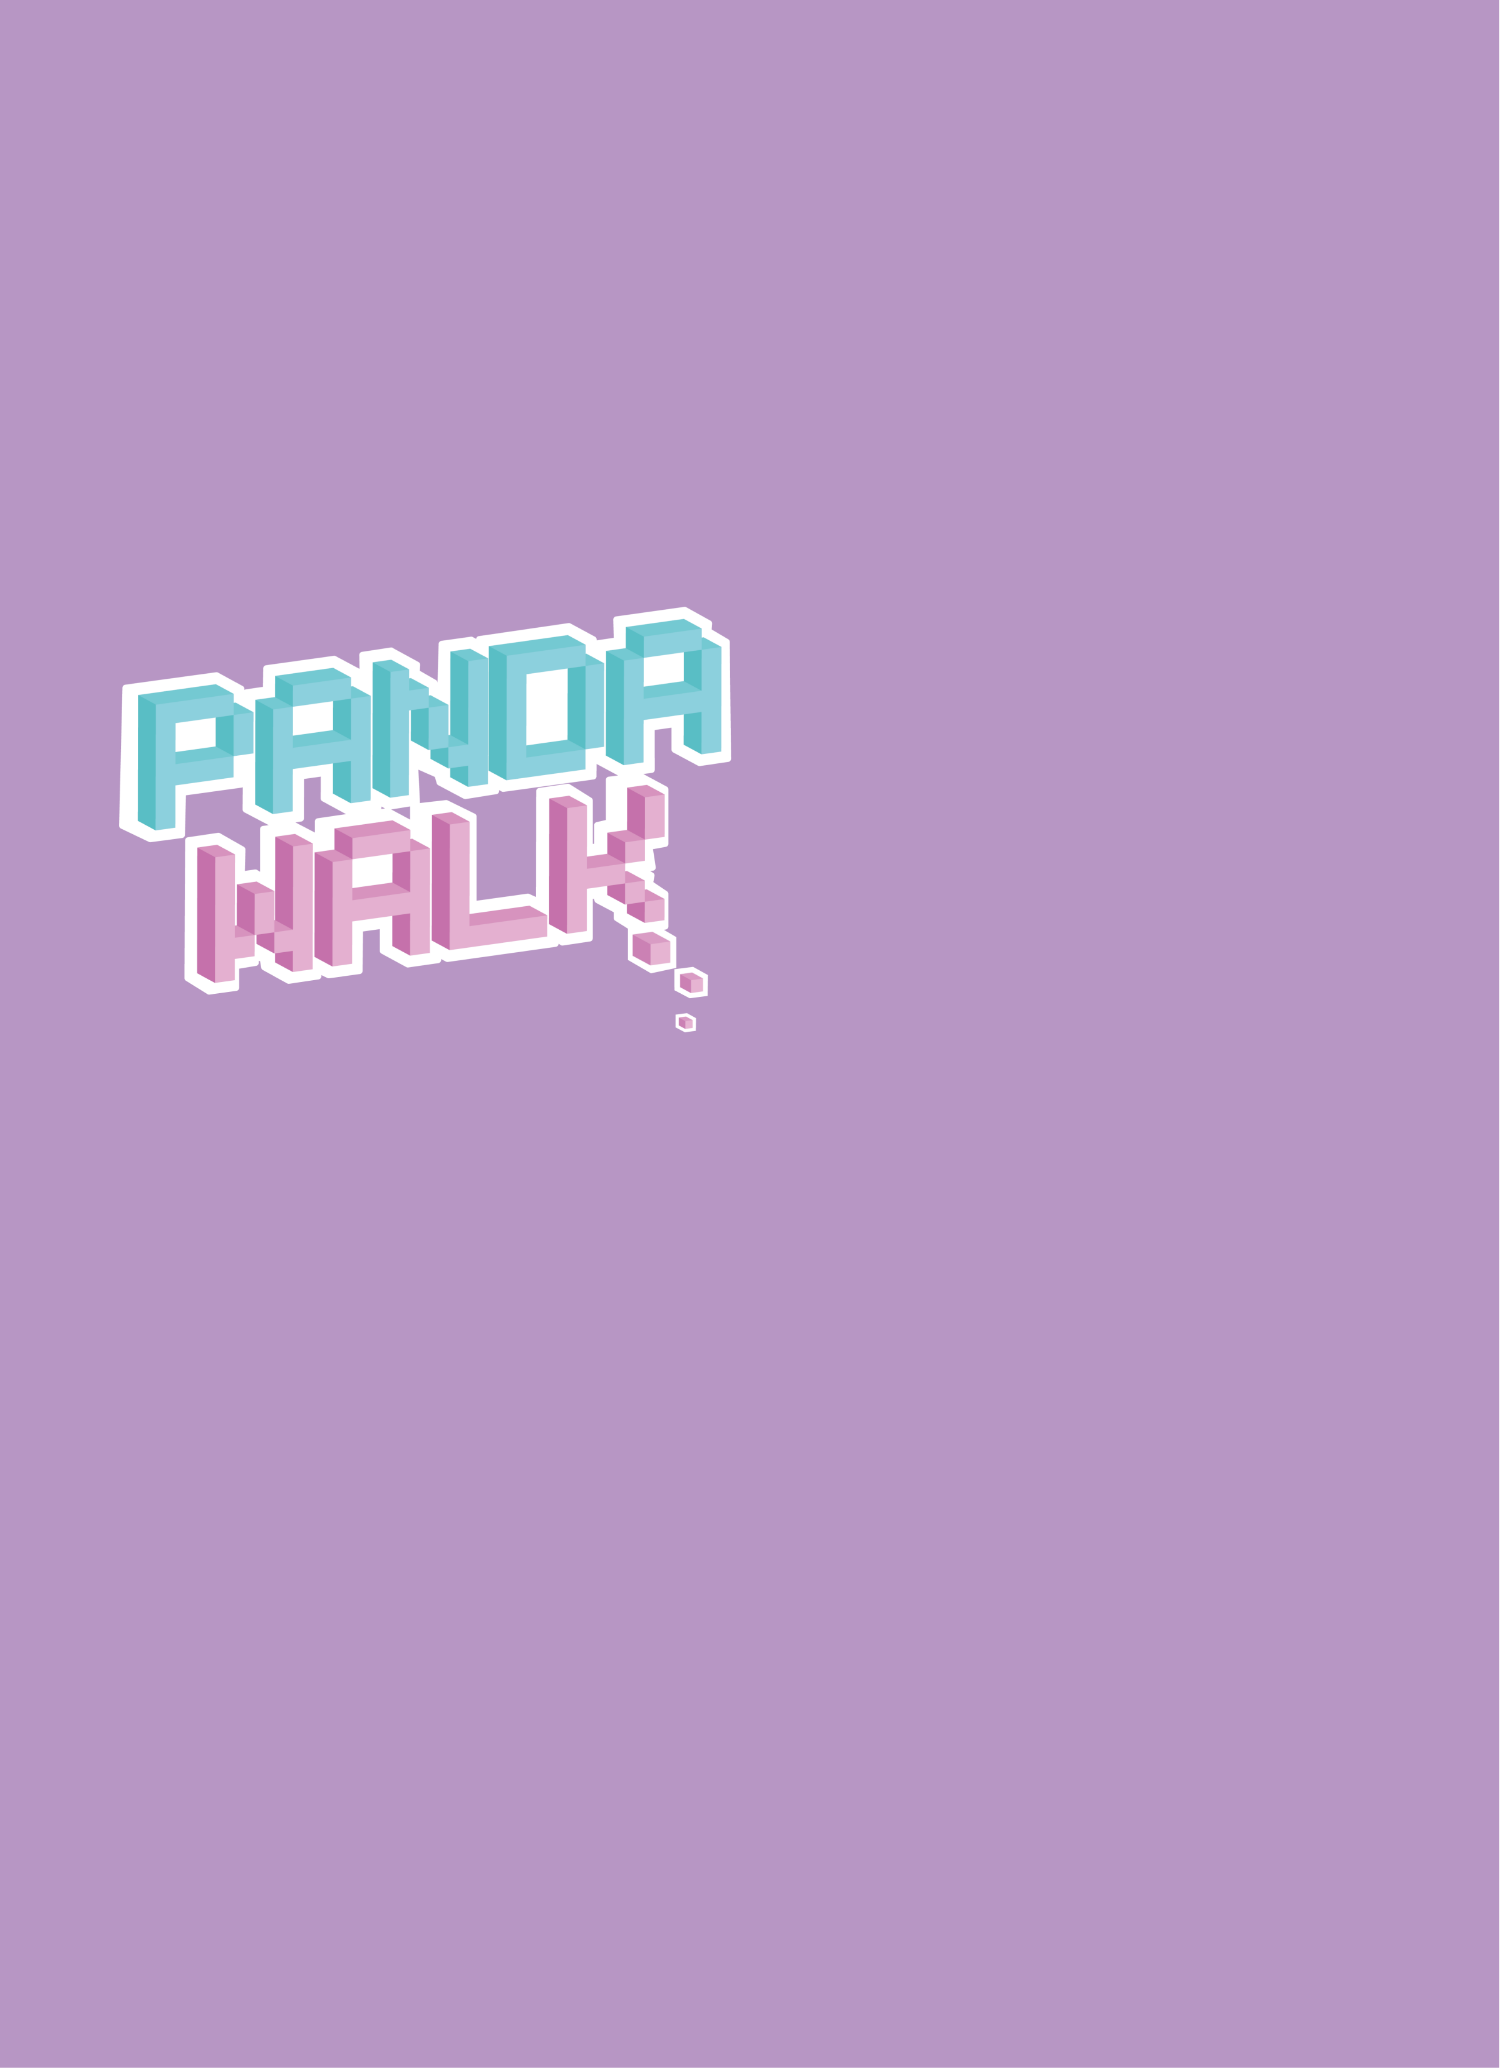
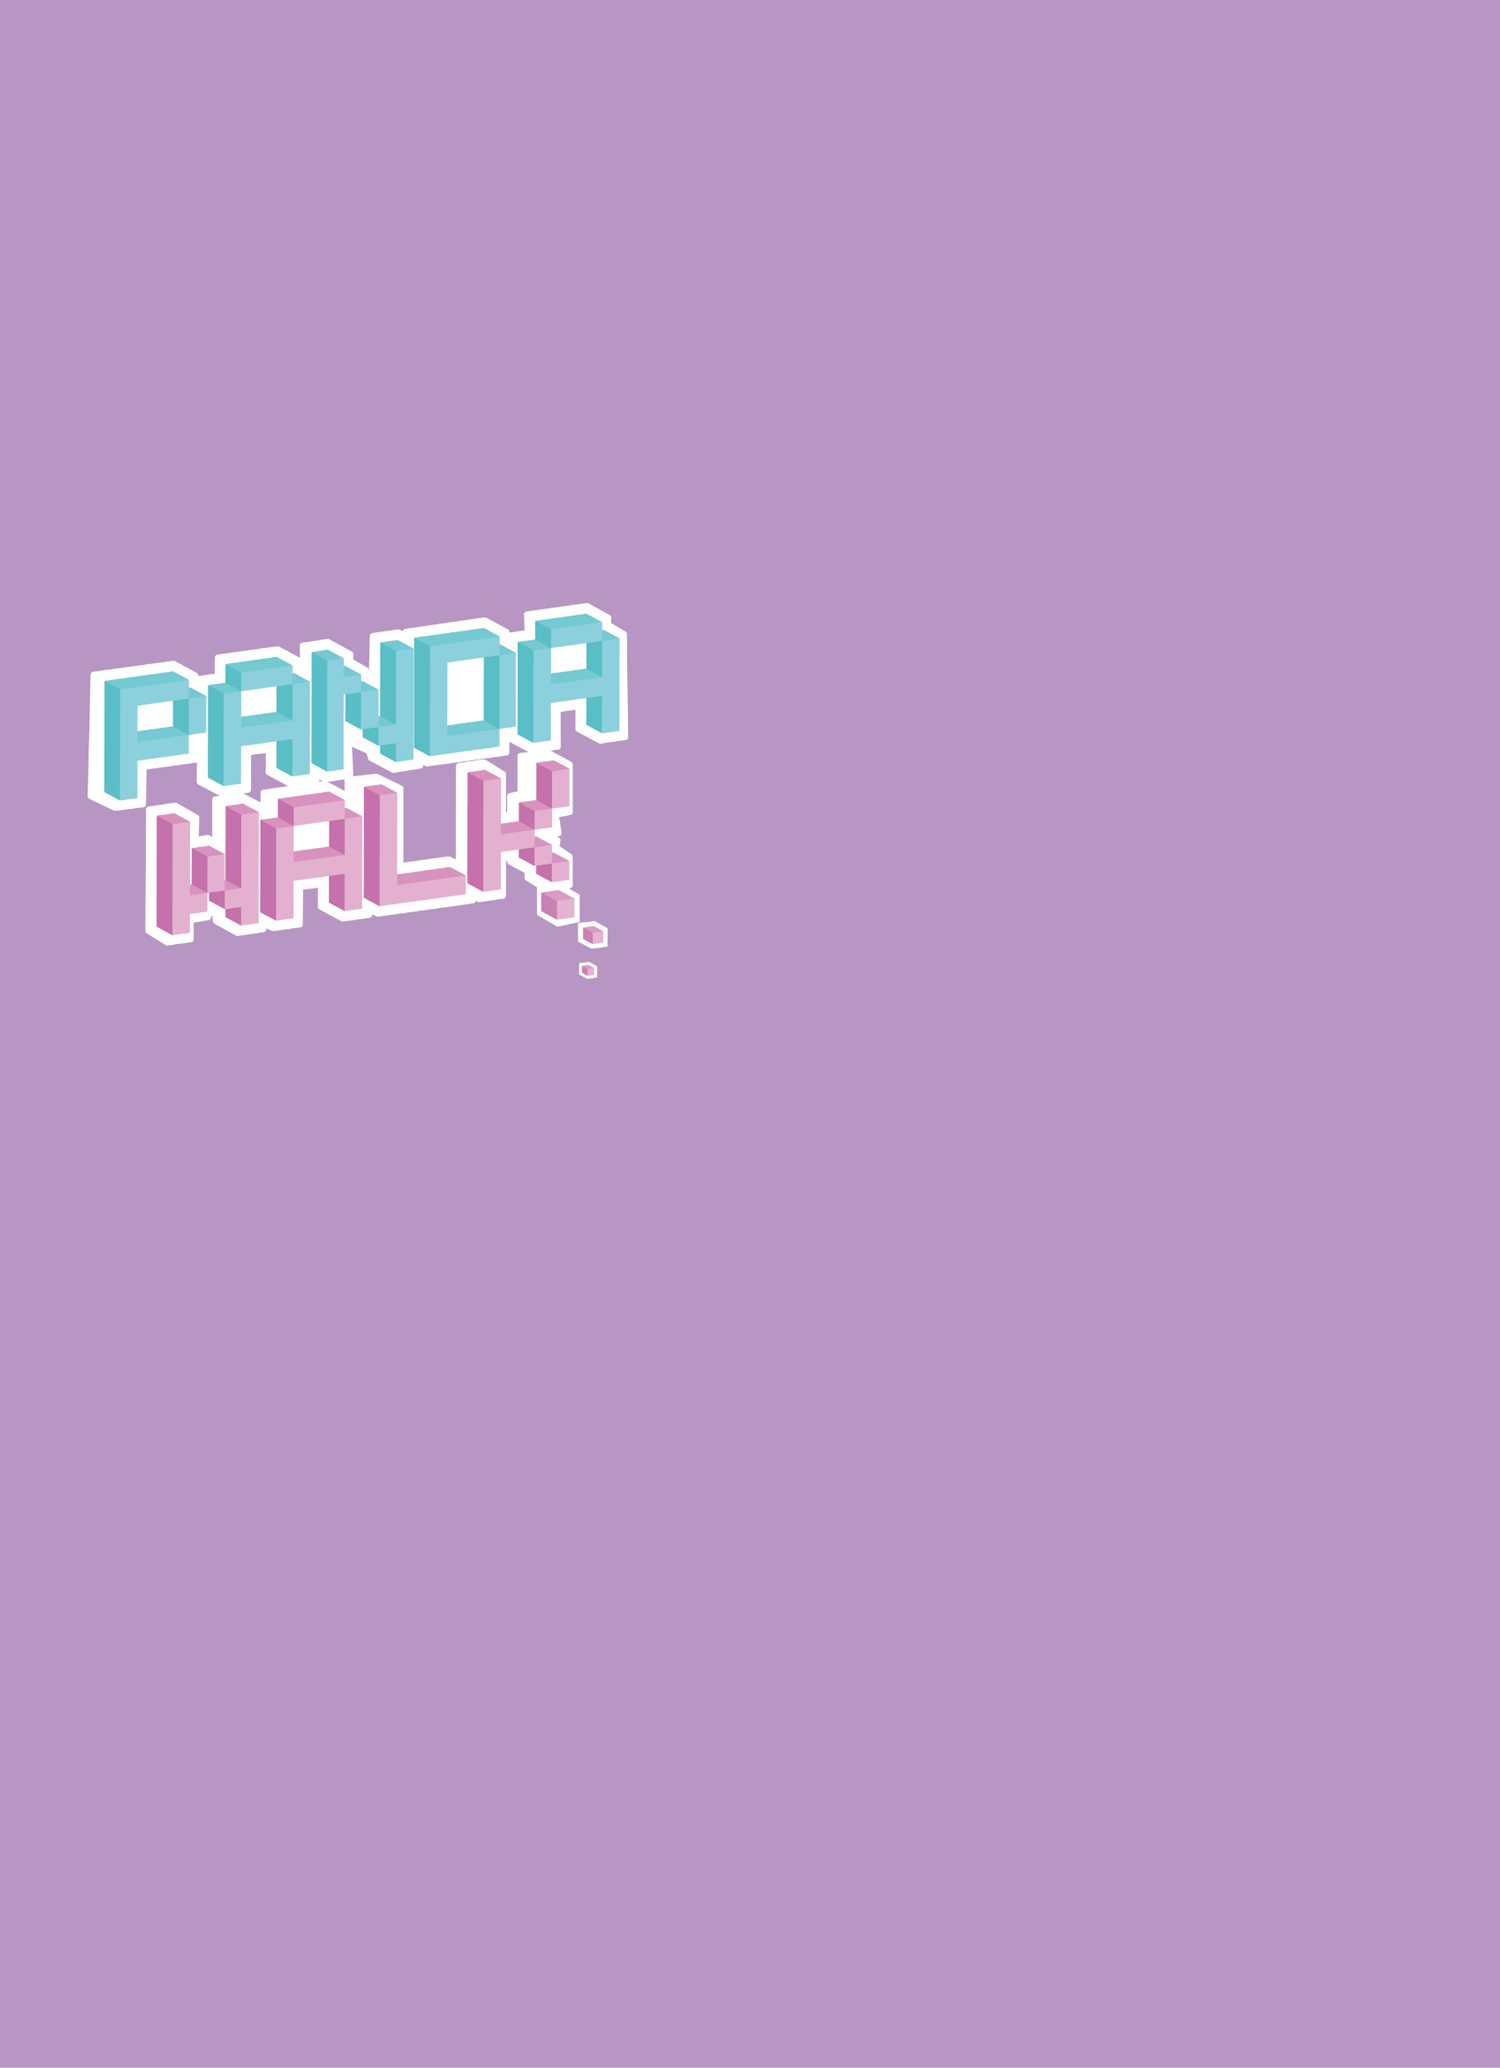
sub_

Changed region(s): [[0.0613, 0.2785, 0.4907, 0.4952]]

diff --git a/new_3dep5.html b/new_3dep5.html
@@ -19,7 +19,7 @@
         <div class="nav">
             <h2>
                 <a href="index.html">
-                    <img src="logo.png" alt="index.html" class="logo">
+                    <img src="logo_sky.png" alt="index.html" class="logo">
                 </a>
             </h2>
             <a href="index.html">

diff --git a/new_3dep5_max_768.css b/new_3dep5_max_768.css
@@ -21,7 +21,7 @@
     height: 517px;
   }
   .main_inner {
-      background-image: url(project5/project5_main3.png);
+      background-image: url(project5/project5_main3@2x.png);
     -webkit-background-size: 375px 517px;
     background-position: 0 0;
     width: auto;

diff --git a/new_3dep5.css b/new_3dep5.css
@@ -175,7 +175,7 @@ font-weight: 300;
   font-size: 12px;
 
   padding: 0;
-  background-color: #1e232d;
+  background-color: #54CFDD;
   width: 100%;
   height: 80px;
 }
